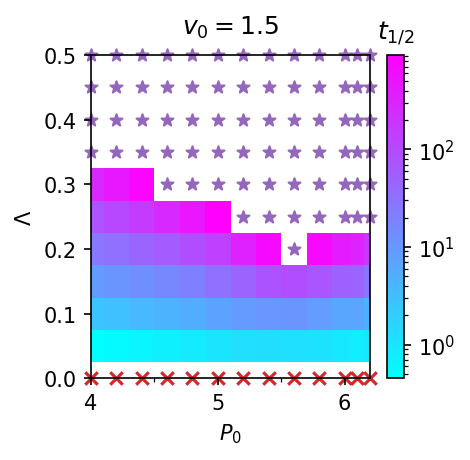
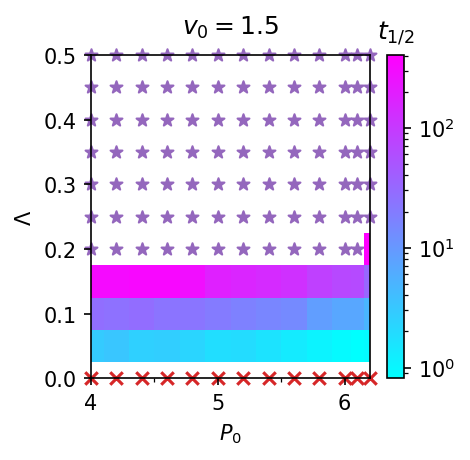
:art: Improve structure of the code and update README

diff --git a/calibration/match_fdetach/phase_diagrams/scan_P0_Lambda.py b/calibration/match_fdetach/phase_diagrams/scan_P0_Lambda.py
@@ -47,7 +47,7 @@ for idx_Lambda, Lambda in enumerate(Lambdas):
         N_init = 100                    # number of cells
         radius = phys.r                 # radius of each cell [20 microns]
         phi = 0.5                       # packing fraction
-        dt = 0.01                       # time step
+        dt = 0.002 if Lambda <= 0.2 else 0.006      # time step
         T = 1000.0                      # total simulation time
         steps = int(T/dt)               # number of time steps
         T_init = 20.0                   # initial relaxation time

diff --git a/calibration/match_fdetach/phase_diagrams/scan_P0_v0.py b/calibration/match_fdetach/phase_diagrams/scan_P0_v0.py
@@ -52,7 +52,7 @@ for idx_P0, P0_val in enumerate(P0s):
         N_init = 100                    # number of cells
         radius = phys.r                 # radius of each cell [20 microns]
         phi = 0.5                       # packing fraction
-        dt = 0.01                       # time step
+        dt = 0.003 if v0 >= 1.5 else 0.005        # time step
         T = 1000.0                      # total simulation time
         steps = int(T/dt)               # number of time steps
         T_init = 20.0                   # initial relaxation time

diff --git a/README.md b/README.md
@@ -5,7 +5,7 @@
 
 These are the code and data required to reproduce the results in the paper:
 
-- ***Divergence of detachment forces in the finite-Voronoi model***, Wei Wang (汪巍) and Brian A. Camley, **Soft Matter (2026)**.
+- ***Divergence of detachment forces in the finite-Voronoi model***, Wei Wang (汪巍) and Brian A. Camley, submitted to **Soft Matter (2026)**.
 
 Preprint version available on **arXiv**: [arXiv:26xx.xxxxx](https://doi.org/10.48550/arXiv.26xx.xxxxx).
 
@@ -19,7 +19,7 @@ The code was run with **Python 3.11.11** and the following packages:
 | numpy      | 2.1.3   | Numerical computations                                                       |
 | matplotlib | 3.10.0  | Plotting and visualization                                                   |
 | scipy      | 1.15.3  | Miscellaneous scientific functions                                           |
-| pyafv      | 0.4.6   | Core package; see our [GitHub repository](https://github.com/wwang721/pyafv) |
+| pyafv      | >=0.4.6 | Core package; see our [GitHub repository](https://github.com/wwang721/pyafv) |
 | tqdm       | 4.67.1  | Progress bars during calculations                                            |
 | mpi4py     | 4.0.3   | Parallel processing using MPI                                                |
 | lifelines  | 0.30.0  | Survival analysis                                                            |
@@ -38,7 +38,7 @@ You can install all dependencies by running `pip install -r requirements.txt`.
 
 [![Open In Colab](https://colab.research.google.com/assets/colab-badge.svg)](https://colab.research.google.com/github/pyafv/assets/blob/main/jupyter/custom_plot.ipynb)
 
-Figure 1 is the plotting example given by the `pyafv` documentation; click the badge above to run the notebook directly on **Google Colab**.
+Figure 1 is the plotting example given by the `pyafv` [documentation](https://pyafv.readthedocs.io/latest/examples.html#custom-plotting); click the badge above to run the notebook directly on **Google Colab**.
 
 
 ### Figure 2
@@ -50,9 +50,7 @@ Submit the job to the HPC cluster using [time_step/run.slurm](/time_step/run.slu
 
 ### Figure 4
 
-To compare the theory with the simulation results shown in panel (a), run [truncation/comparison.py](/truncation/comparison.py).
-
-> [WIP] To compute the detachment forces in the finite-Voronoi model for a given value of $\delta$ ($=0.45$), run [truncation/detachment_forces.py](/truncation/detachment_forces.py) or [truncation/detachment_forces_fix_ell.py](/truncation/detachment_forces_fix_ell.py) for a fixed $\ell$.
+To compare the theory with the simulation results shown in panel (a), run [truncation/comparison.py](/truncation/comparison.py). To compute the detachment forces in the finite-Voronoi model with fixed $\ell=1$ and $\delta=0.45$ [panel (b)], run [truncation/detachment_forces_fix_ell.py](/truncation/detachment_forces_fix_ell.py).
 
 
 ### Figure 5
@@ -64,18 +62,23 @@ To generate the $P_0$—Λ phase digram for the steady-state $\ell_0$, run [trun
 
 Run [calibration/main.py](/calibration/main.py) to execute the simulation and generate snapshots of a cell doublet subjected to external force dipoles in the deformable-polygon (DP) model.
 
-> [WIP] To plot the detachment forces along the path $\Lambda=\lambda^{(n)}+2K_P P_0$, run [calibration/vary_lambda_c.py](/calibration/vary_lambda_c.py).
-
 To sweep the $P_0$—Λ parameter plane for detachment forces in DP model, submit [calibration/run.slurm](/calibration/run.slurm), which executes [calibration/dp_detach.py](/calibration/dp_detach.py). The results are saved to [calibration/detachment_forces_DP.npy](/calibration/detachment_forces_DP.npy). Then run [calibration/plot.py](/calibration/plot.py) to generate panel (b).
 
 > [!NOTE]
 > The `auto_calibrate` method used in [calibration/dp_detach.py](/calibration/dp_detach.py) also returns the steady-state cell radius $\ell_0$ and the target $\delta$ value that matches the detachment forces between the deformable-polygon (DP) and finite-Voronoi (FV) models; these quantities can also be saved and reused if needed.
 
-The directory [calibration/fix_delta](/calibration/fix_delta/) contains the scripts for the fixed-delta calibration with $\delta=0.45$. The scripts [force_dist_P0_4.8.py](/calibration/fix_delta/force_dist_P0_4.8.py) and [force_dist_P0_6.py](/calibration/fix_delta/force_dist_P0_6.py) generate the constitutive relations for $P_0=4.8$ and $P_0=6$, respectively [panels (c) and (d)].
-The scripts used to generate the two phase diagrams [panels (e) and (f)] are located in the directory [calibration/fix_delta/phase_diagrams](/calibration/fix_delta/phase_diagrams/). Two separate jobs should be submitted using [run.slurm](/calibration/fix_delta/phase_diagrams/run.slurm) to execute [scan_P0_Lambda.py](/calibration/fix_delta/phase_diagrams/scan_P0_Lambda.py) and [scan_P0_v0.py](/calibration/fix_delta/phase_diagrams/scan_P0_v0.py), respectively. After the simulations complete, the phase diagrams can be generated by running [plot_P0_Lambda.py](/calibration/fix_delta/phase_diagrams/plot_P0_Lambda.py) and [plot_P0_v0.py](/calibration/fix_delta/phase_diagrams/plot_P0_v0.py), which read the output data saved in [data](/calibration/fix_delta/phase_diagrams/data/).
+To compute the detachment forces in the finite-Voronoi model with cell radius set to its optimal value $\ell=\ell_0$ and $\delta=0.45$ [panel (c)], run [truncation/detachment_forces.py](/truncation/detachment_forces.py).
 
-The directory [calibration/match_fdetach](/calibration/match_fdetach/) contains scripts for the calibration in which the detachment forces are matched between the FV and DP models. The scripts [force_dist_P0_4.8.py](/calibration/match_fdetach/force_dist_P0_4.8.py) and [force_dist_P0_6.py](/calibration/match_fdetach/force_dist_P0_6.py) generate the constitutive relations for $P_0=4.8$ and $P_0=6$, respectively [panels (g) and (h)].
-The scripts used to generate the last two phase diagrams [panels (i) and (j)] are located in [calibration/match_fdetach/phase_diagrams](/calibration/match_fdetach/phase_diagrams/) and are organized in the same way as those in [calibration/fix_delta/phase_diagrams](/calibration/fix_delta/phase_diagrams/).
+As shown in panel (d), to plot the detachment forces along the path $\Lambda=\lambda^{(n)}+2K_P P_0$ in the previous phase diagrams, run [calibration/vary_lambda_c.py](/calibration/vary_lambda_c.py).
+
+
+### Figure 7
+
+The directory [calibration/fix_delta](/calibration/fix_delta/) contains the scripts for the fixed-delta calibration with $\delta=0.45$. The scripts [force_dist_P0_4.8.py](/calibration/fix_delta/force_dist_P0_4.8.py) and [force_dist_P0_6.py](/calibration/fix_delta/force_dist_P0_6.py) generate the constitutive relations for $P_0=4.8$ and $P_0=6$, respectively [panels (a) and (b)].
+The scripts used to generate the two phase diagrams [panels (c) and (d)] are located in the directory [calibration/fix_delta/phase_diagrams](/calibration/fix_delta/phase_diagrams/). Two separate jobs should be submitted using [run.slurm](/calibration/fix_delta/phase_diagrams/run.slurm) to execute [scan_P0_Lambda.py](/calibration/fix_delta/phase_diagrams/scan_P0_Lambda.py) and [scan_P0_v0.py](/calibration/fix_delta/phase_diagrams/scan_P0_v0.py), respectively. After the simulations complete, the phase diagrams can be generated by running [plot_P0_Lambda.py](/calibration/fix_delta/phase_diagrams/plot_P0_Lambda.py) and [plot_P0_v0.py](/calibration/fix_delta/phase_diagrams/plot_P0_v0.py), which read the output data saved in [data](/calibration/fix_delta/phase_diagrams/data/).
+
+The directory [calibration/match_fdetach](/calibration/match_fdetach/) contains scripts for the calibration in which the detachment forces are matched between the FV and DP models. The scripts [force_dist_P0_4.8.py](/calibration/match_fdetach/force_dist_P0_4.8.py) and [force_dist_P0_6.py](/calibration/match_fdetach/force_dist_P0_6.py) generate the constitutive relations for $P_0=4.8$ and $P_0=6$, respectively [panels (e) and (f)].
+The scripts used to generate the last two phase diagrams [panels (g) and (h)] are located in [calibration/match_fdetach/phase_diagrams](/calibration/match_fdetach/phase_diagrams/) and are organized in the same way as those in [calibration/fix_delta/phase_diagrams](/calibration/fix_delta/phase_diagrams/).
 
 
 ### Other figures
